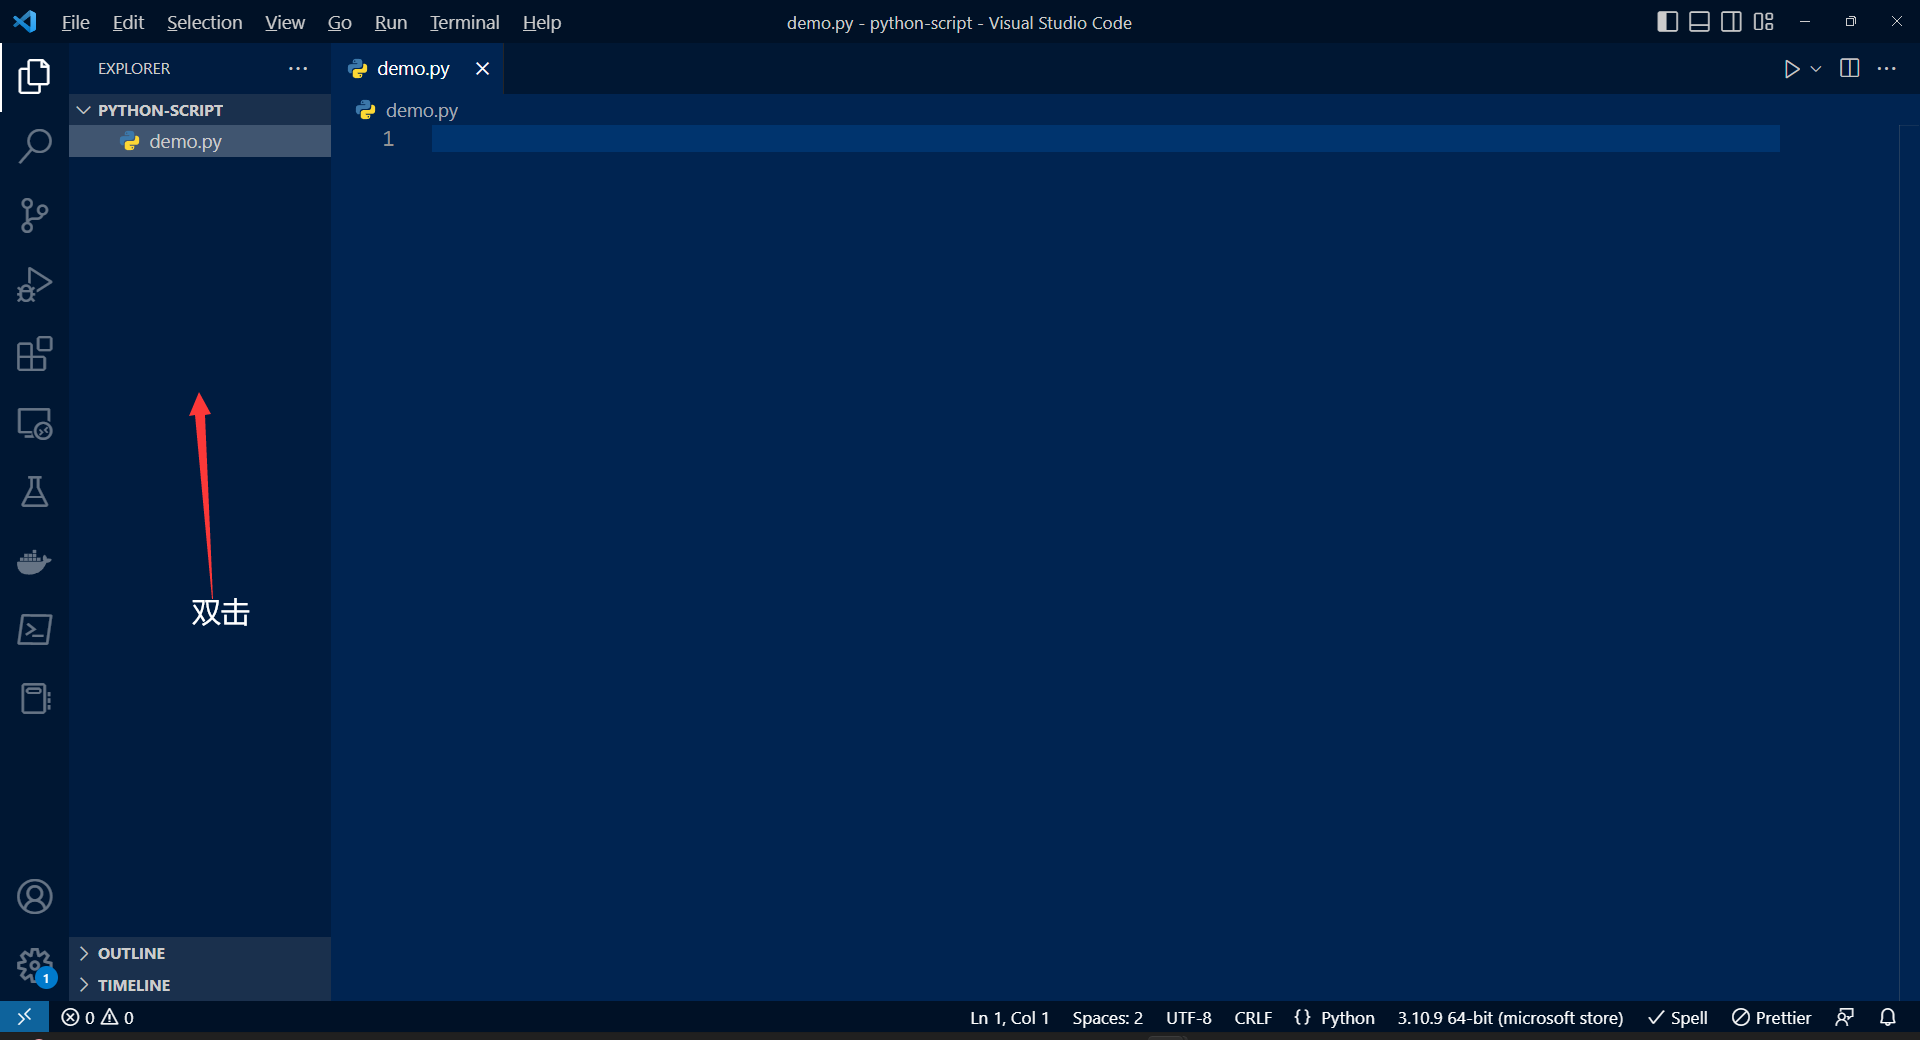
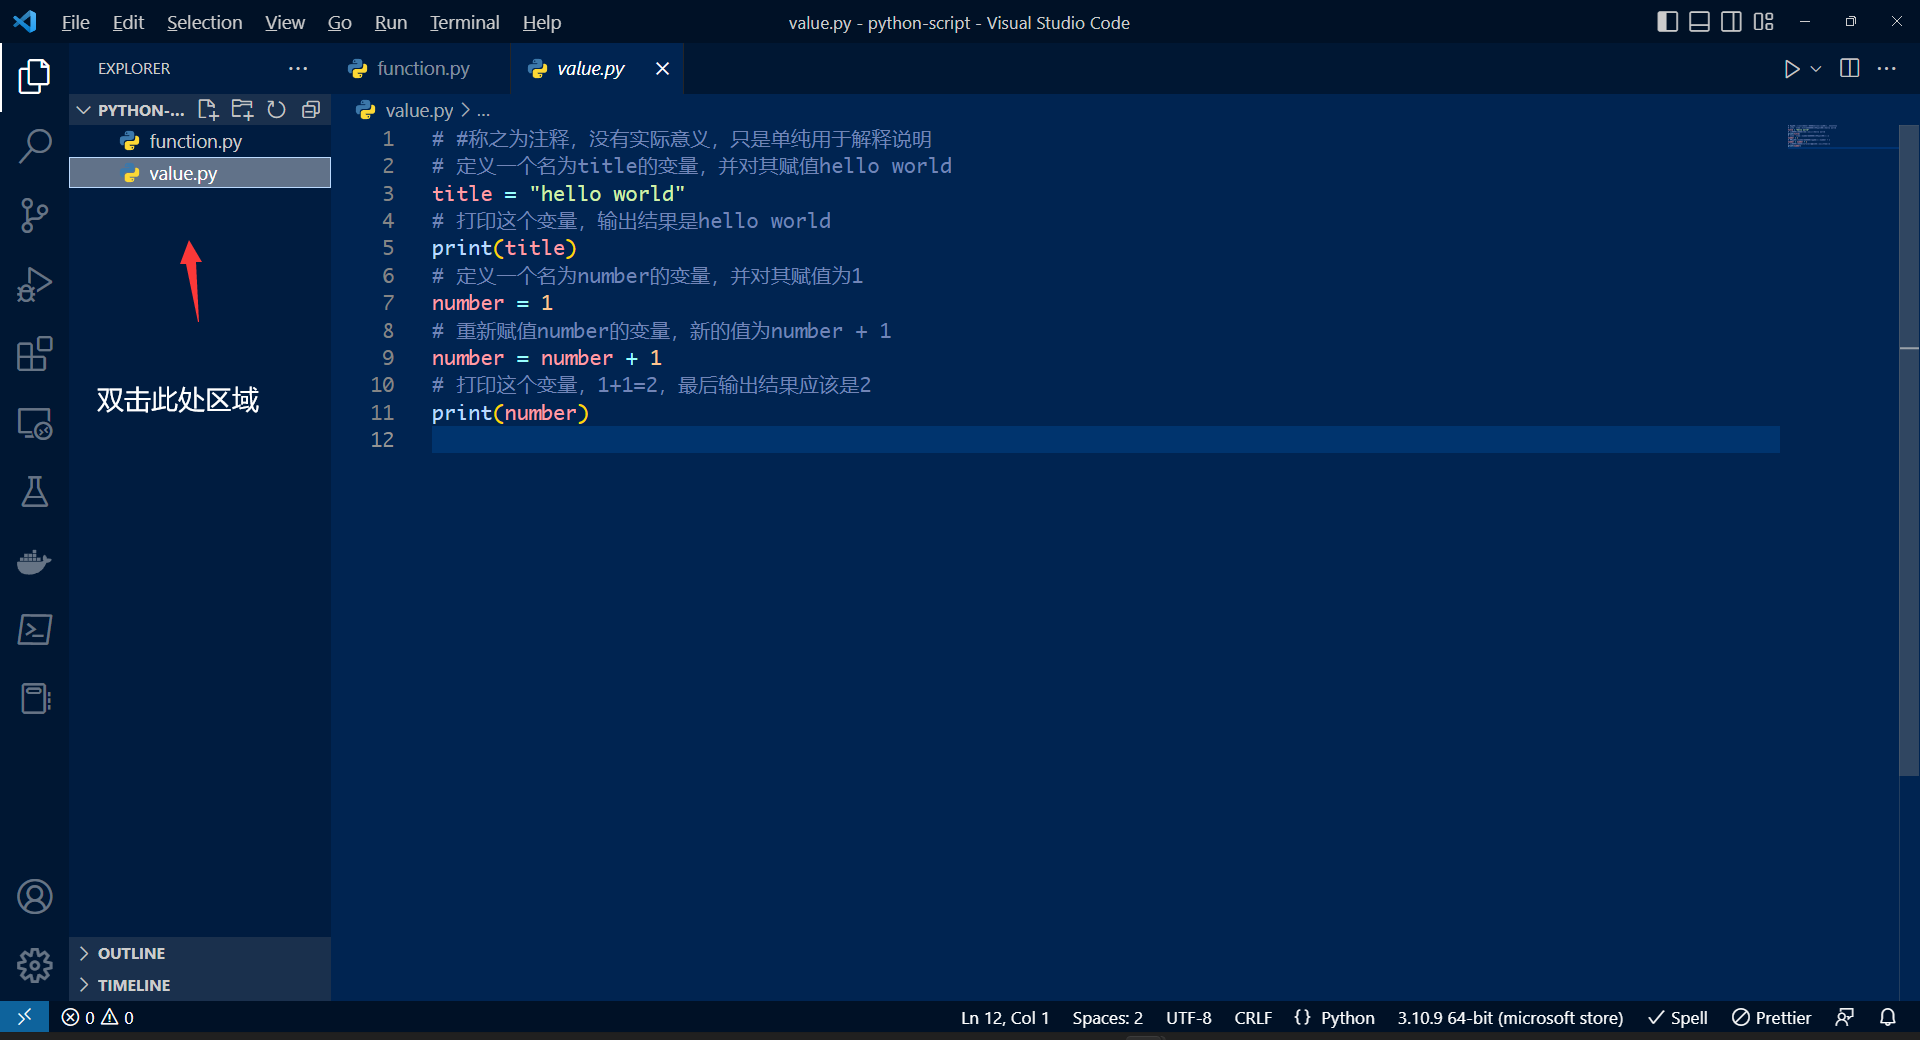
save

diff --git a/article/python0.html b/article/python0.html
@@ -7,6 +7,7 @@
     type="text/css" />
   <link rel="stylesheet" href="/static/common.css" type="text/css" />
   <link rel="stylesheet" href="/static/analysis.css" type="text/css" />
+  <link rel="stylesheet" href="/static/code.css" type="text/css" />
 </head>
 
 <body>
@@ -48,7 +49,7 @@
           <li>3. 了解python的变量定义，函数定义</li>
           <li>4. 了解python的库，以及如何使用</li>
         </ul>
-        <p>序章将着重在这三个点进行入门知识的讲解</p>
+        <p>序章将着重在这四个点进行讲解</p>
       </div>
       <div class="title">
         <h2>如何安装python环境</h2>
@@ -63,14 +64,15 @@
               href="https://www.python.org/downloads/release/python-3810/">python3.8.10</a>，选择Windows installer
             (64-bit)下载并安装
           </li>
-          <li>2. 打开windows终端并输入<code>python --version</code></li>
+          <li>2. 右键屏幕底部任务栏win图标，选择windows终端（管理员）</li>
+          <li>3. 输入<code>python --version</code></li>
         </ul>
         <p>如果出现以下提示则说明环境已成功安装</p>
         <pre>
 PS C:\Users\****> python --version
 Python 3.8.10</pre>
         <p>
-          否则说明python没有被成功设置识别，需要配置环境变量，可以看看这篇文章<a target="_blank"
+          否则说明python没有被成功设置识别，需要配置环境变量，<a target="_blank"
             href="https://blog.csdn.net/weixin_46371752/article/details/124757123">如何配置环境变量</a>
         </p>
       </div>
@@ -80,7 +82,7 @@ Python 3.8.10</pre>
       <div class="block">
         <ul>
           <li>
-            1. 进入vscode官网<a target="_blank" href="https://code.visualstudio.com/">vscode</a>下载并安装
+            1. 进入<a target="_blank" href="https://code.visualstudio.com/">vscode官网</a>下载并安装
           </li>
         </ul>
       </div>
@@ -98,7 +100,7 @@ Python 3.8.10</pre>
         </p>
         <p>
           2.
-          用vscode打开这个项目，并双击左侧的列表区域，新建文件demo.py，如同所示
+          用vscode打开这个项目，并双击左侧的列表区域，新建文件value.py，如同所示
         </p>
         <p>
           <img width="100%" src="/static/python1.png" alt="" />
@@ -110,11 +112,17 @@ Python 3.8.10</pre>
         <p>一切准备就绪，接下来进入正题</p>
         <p>我们在编辑器中输入</p>
         <pre>
-title = "hello world"
-print(title)
-number = 1
-number = number + 1
-print(number)</pre>
+<span class="comment"># #称之为注释，没有实际意义，只是单纯用于解释说明</span>
+<span class="comment"># 定义一个名为title的变量，并对其赋值hello world</span>
+<span class="value">title</span> <span class="equal">=</span> <span class="string">"hello world"</span>
+<span class="comment"># 打印这个变量，输出结果是hello world</span>
+<span class="function">print</span>(<span class="value">title</span>)
+<span class="comment"># 定义一个名为number的变量，并对其赋值为1</span>
+<span class="value">number</span> <span class="equal">=</span> <span class="number">1</span>
+<span class="comment"># 重新赋值number的变量，新的值为number + 1</span>
+<span class="value">number</span> <span class="equal">=</span> <span class="value">number</span> + <span class="number">1</span>
+<span class="comment"># 打印这个变量，1+1=2，最后输出结果应该是2</span>
+print(<span class="value">number</span>)</pre>
         <p>然后切换到windows终端中输入，不出意外的话，显示内容将和如下一致</p>
         <pre>
 PS C:\Users\95814\Documents\lies\python-script> python .\demo.py
@@ -135,13 +143,18 @@ hello world
         <p>
           简单来说，就是y=f(x)，我们定义一个式子f(x)，只要我们把x代入，就会得到y
         </p>
-        <p>在编辑器中输入</p>
+        <p>同理我们新建一个文件function.py</p>
+        <p>并在编辑器中输入</p>
         <pre>
-def counter(number):
-    print(number + 1)
+<span class="comment"># 在python中，定义函数的方式如下，照抄即可</span>
+<span class="comment"># 其中counter为函数名，number称之为参数名，都是可以自己随便取的</span>
+<span class="comment"># 可以把这个函数简单理解成f(x) = x + 1</span>
+<span class="identifier">def</span> <span class="function">counter</span>(<span class="param">number</span>):
+    <span class="function">print</span>(<span class="param">number</span> + <span class="number">1</span>)
 
 
-counter(10)</pre>
+# 调用这个函数，并传入参数10，运行结果为输出11
+<span class="function">counter</span>(<span class="number">10</span>)</pre>
         <p>切换至终端并输入，会得到如下结果</p>
         <pre>
 PS C:\Users\95814\Documents\lies\python-script> python .\function.py

diff --git a/static/code.css b/static/code.css
@@ -1,0 +1,35 @@
+pre {
+  background-color: rgb(0, 36, 81);
+  color: rgb(187, 218, 255);
+}
+pre span.comment {
+  color: rgb(114, 133, 183);
+}
+
+pre span.string {
+  color: rgb(209, 241, 169);
+}
+
+pre span.value {
+  color: rgb(255, 157, 164);
+}
+
+pre span.function {
+  color: rgb(187, 218, 255);
+}
+
+pre span.equal {
+  color: rgb(153, 255, 255);
+}
+
+pre span.number {
+  color: rgb(255, 197, 143);
+}
+
+pre span.identifier {
+  color: rgb(235, 187, 255);
+}
+
+pre span.param {
+  color: rgb(255, 197, 143);
+}
